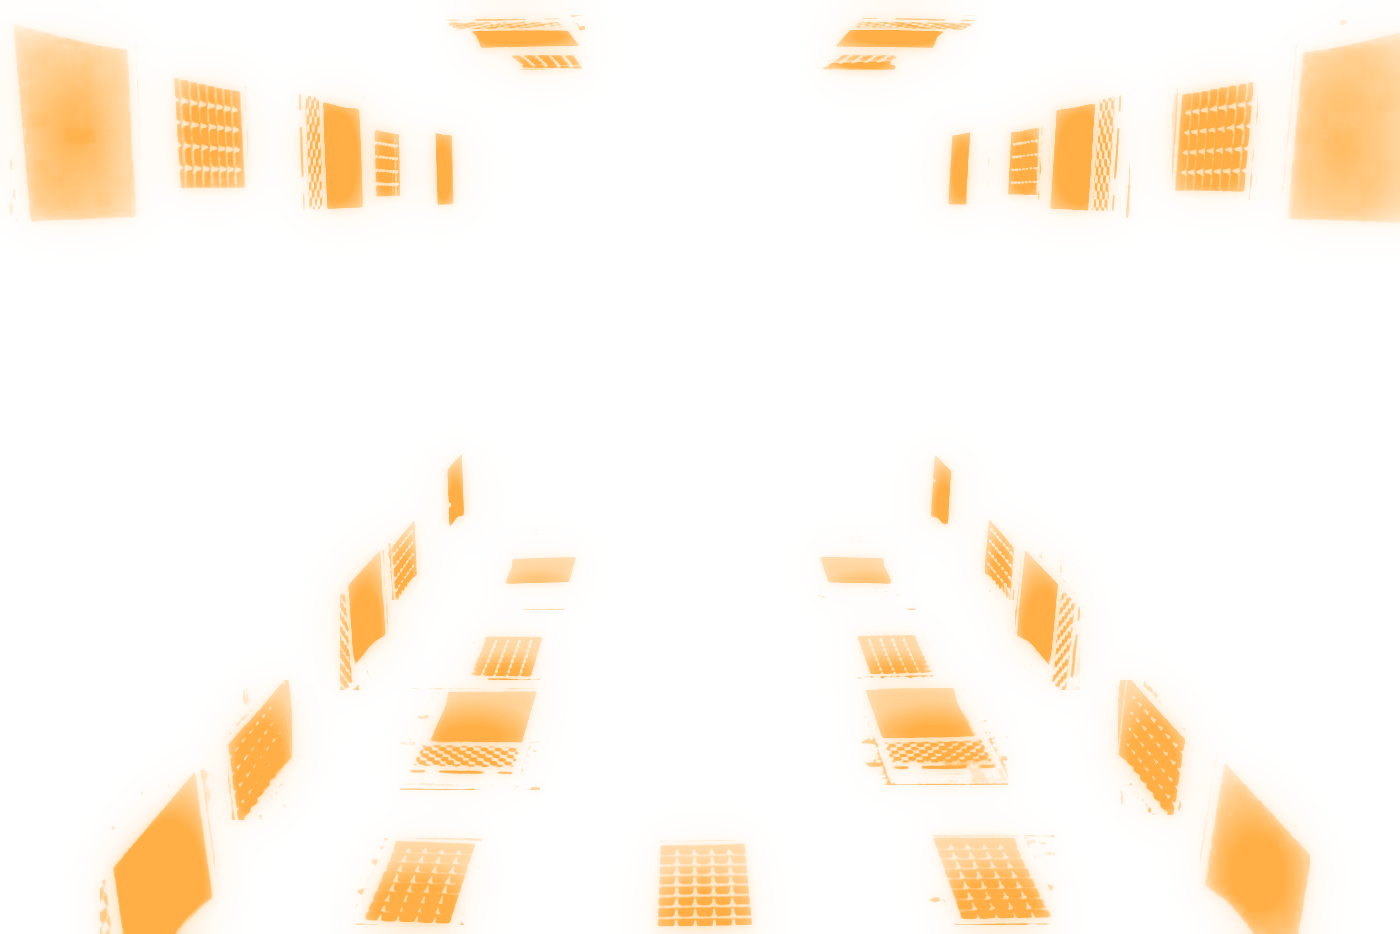
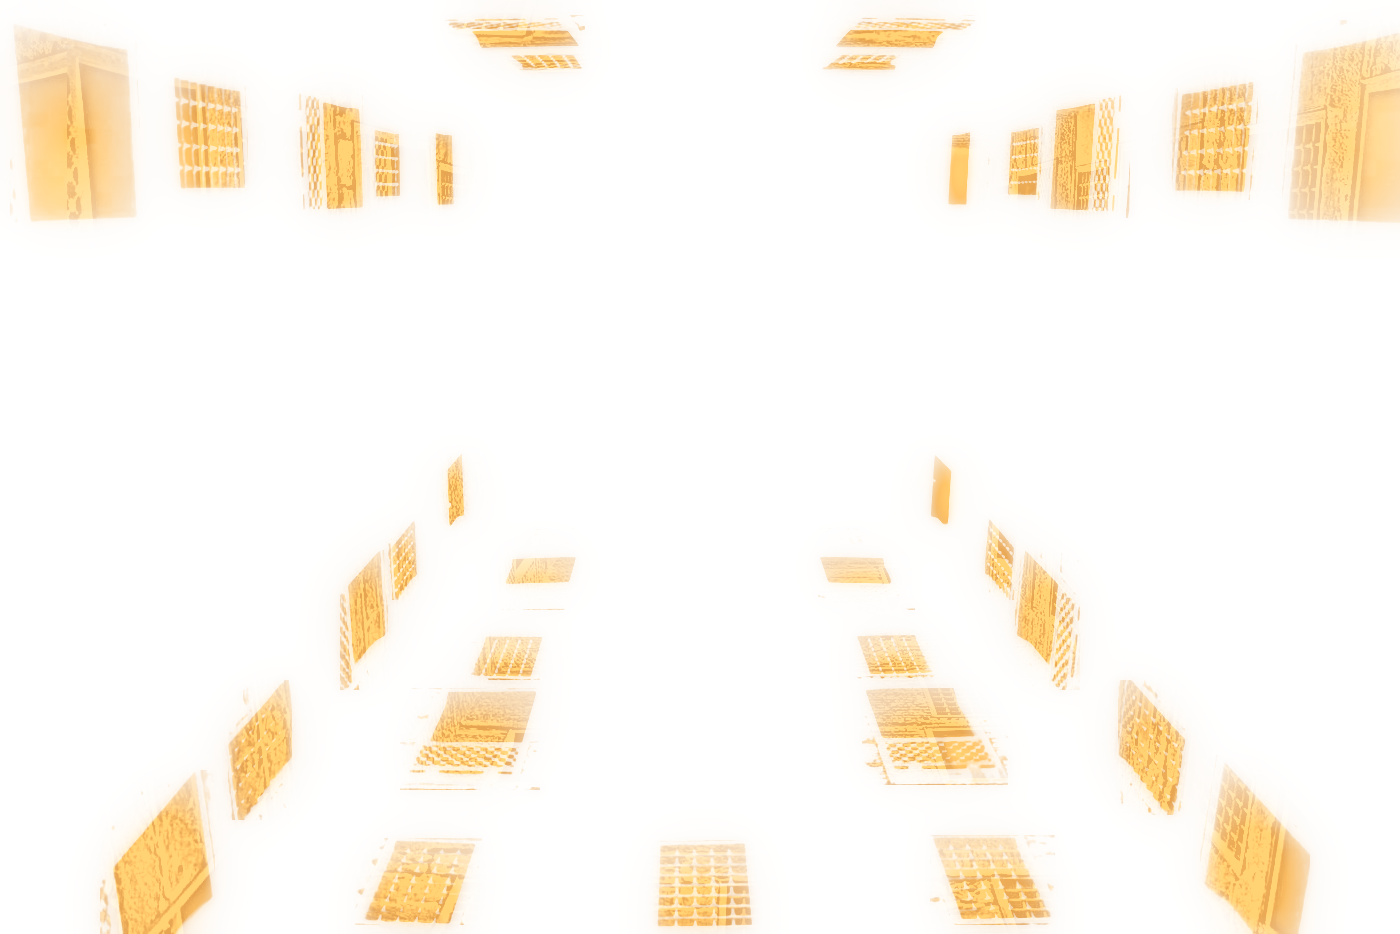
Time-lapse fixes from the prototype review
- The colleges fill: the lamplit rooms are no longer flat fills (each has an off-centre lamp, falloff
  and the photograph's own plaster grain, alpha capped); the open square of sky is a dusk-to-night
  gradient lit from one side, with no drawn stars.
- The mountain rises: no empty beige frame at "Building begins"; the street and trees are there from
  the start and the camera stays close on the rising walls, pulling back as they climb.
- The minaret falls: the frame is wide enough to keep the doorway's hood under the minaret (the print's
  blurred edges fill the sides on wide frames); the stand-in minaret is drawn smaller.
- Reduced motion / cinematic off: "The mountain rises" shows today's colour photograph under "Today".

Claude-Session: https://claude.ai/code/session_01LhJPxFL8QDBqcKKZK9Pg3H

diff --git a/index.html b/index.html
@@ -3625,6 +3625,7 @@ details.transcript p { font-size: 15px; line-height: 1.7; color: rgba(239,231,21
         x.fillRect(v.X(a) - v.s * 0.25, v.Y(y + 1.7), v.s * 0.5, v.s * 1.7); }
     }
 
+    let fallBlur = null;
     // The fall: the shaft leans from its foot, breaks into courses, and each course drops with a little motion blur (plate pixels).
     const SLABS = [0, 110, 200, 300, 390, 470, 567];
     function fallMinaret(x, im, tf, MX, MY, MW, MH, BX, BY) {
@@ -3689,11 +3690,11 @@ details.transcript p { font-size: 15px; line-height: 1.7; color: rgba(239,231,21
         ],
         drawPhoto(x, v, p, t, still, im) {
           const day = Math.sin(t * 2.3 - 1.2), fl = still ? 0 : 1 - seg(p, 0.84, 0.92), night = fl * Math.max(0, -day) * 0.75; // days and nights pass (under 0.4 Hz), then settle
-          const k = 1.03 - 0.03 * p, oy = 0.012 - 0.012 * p; // a slow push back, like a camera on a tripod across the square
+          const h = still ? 1 : keys(p, [[0, 0.1], [0.09, 0.15], [0.5, 0.45], [0.62, 0.55], [0.72, 0.7], [0.84, 0.97], [0.86, 1]]); // share of the print's height built (the street and the trees in front are there from the start)
+          const k = still ? 1 : Math.min(2.8, 1 / Math.min(1, h * 1.5 + 0.14)), oy = (v.H - im.plate.height * Math.max(v.W / im.plate.width, v.H / im.plate.height) * k) / (2 * v.H); // the camera keeps the rising work in view, pulling back as the walls climb (bottom held)
           x.fillStyle = '#000'; x.fillRect(0, 0, v.W, v.H);
           const f = cover(x, v, im.plate, k, 0, oy);
-          const h = still ? 1 : keys(p, [[0, 0], [0.09, 0.02], [0.5, 0.41], [0.62, 0.52], [0.72, 0.7], [0.84, 0.97], [0.86, 1]]); // share of the print's height built
-          const top = f.t + f.h * (1 - h);
+                    const top = f.t + f.h * (1 - h);
           if (h > 0.001) {
             x.save(); x.beginPath(); x.moveTo(f.l, f.t + f.h);
             for (let a = 0; a <= 12; a++) { const xs = f.l + (f.w * a) / 12, j = still || h >= 1 ? 0 : (Math.sin(a * 2.7 + Math.floor(t * 1.3) * 1.9) * 0.5 + 0.5) * f.h * 0.008; x.lineTo(xs, top + j); x.lineTo(xs + f.w / 12, top + j); }
@@ -3713,8 +3714,8 @@ details.transcript p { font-size: 15px; line-height: 1.7; color: rgba(239,231,21
             const today = seg(p, 0.88, 0.97); // 1899 dissolves into today, in colour
             if (today > 0) { x.save(); x.globalAlpha = today; cover(x, v, im.today, 1.02 - 0.02 * seg(p, 0.88, 1)); x.restore(); }
             grain(x, v, t, 0.09 * (1 - today * 0.6));
-          } else grain(x, v, 0, 0.07);
-          const vg = x.createRadialGradient(v.W / 2, v.H * 0.45, v.W * 0.35, v.W / 2, v.H * 0.5, v.W * 0.9); vg.addColorStop(0, 'rgba(0,0,0,0)'); vg.addColorStop(1, 'rgba(0,0,0,.6)');
+          } else { cover(x, v, im.today, 1.0); grain(x, v, 0, 0.05); } // still: today's photograph, under its "Today" caption
+          const vg = x.createRadialGradient(v.W / 2, v.H / 2, Math.max(v.W, v.H) * 0.45, v.W / 2, v.H / 2, Math.max(v.W, v.H) * 0.85); vg.addColorStop(0, 'rgba(0,0,0,0)'); vg.addColorStop(1, 'rgba(0,0,0,.45)');
           x.fillStyle = vg; x.fillRect(0, 0, v.W, v.H);
         },
         draw(x, v, p, t, still) {
@@ -3817,11 +3818,12 @@ details.transcript p { font-size: 15px; line-height: 1.7; color: rgba(239,231,21
           const [s0, s1, s2, s3] = this.sky;
           if (n > 0.01) {
             x.save(); x.globalCompositeOperation = 'multiply'; x.fillStyle = `rgb(${255 - 214 * n | 0},${255 - 199 * n | 0},${255 - 148 * n | 0})`; x.fillRect(0, 0, iw, ih); x.restore();
-            x.save(); x.beginPath(); x.rect(s0 + 3, s1 + 3, s2 - s0 - 6, s3 - s1 - 6); x.clip(); // the night sky in the open square, a few stars
+            x.save(); x.beginPath(); x.rect(s0 + 3, s1 + 3, s2 - s0 - 6, s3 - s1 - 6); x.clip(); // the open square of sky goes from day to dusk to night
             const mixc = (a, b, q) => a.map((u, j) => u + (b[j] - u) * q | 0), tone = (d, u, w) => `rgb(${(n < 0.5 ? mixc(d, u, n * 2) : mixc(u, w, (n - 0.5) * 2)).join(',')})`; // day, dusk, night
-            const g = x.createLinearGradient(0, s1, 0, s3); g.addColorStop(0, tone([250, 246, 236], [96, 110, 160], [8, 14, 40])); g.addColorStop(1, tone([255, 240, 210], [214, 150, 104], [22, 30, 66]));
+            const cx = s0 + (s2 - s0) * 0.8, cy = s1 + (s3 - s1) * 0.85, R = Math.hypot(s2 - s0, s3 - s1); // the last light low on one side, as the sky looks straight up at dusk
+            const g = x.createRadialGradient(cx, cy, 0, cx, cy, R); g.addColorStop(0, tone([255, 240, 214], [226, 160, 112], [26, 30, 50])); g.addColorStop(0.55, tone([252, 246, 234], [120, 124, 168], [13, 16, 32])); g.addColorStop(1, tone([248, 246, 240], [74, 86, 140], [6, 8, 18]));
             x.globalAlpha = Math.min(1, n * 3); x.fillStyle = g; x.fillRect(s0, s1, s2 - s0, s3 - s1); x.globalAlpha = 1;
-            const r = rnd(9); x.fillStyle = `rgba(235,235,255,${Math.max(0, n - 0.5) * 1.6})`; for (let i = 0; i < 26; i++) { const sz = r() < 0.2 ? 2.4 : 1.4; x.fillRect(s0 + r() * (s2 - s0), s1 + r() * (s3 - s1), sz, sz); }
+            const e = x.createLinearGradient(s0, 0, s0 + 40, 0); e.addColorStop(0, `rgba(0,0,0,${0.35 * n})`); e.addColorStop(1, 'rgba(0,0,0,0)'); x.fillStyle = e; x.fillRect(s0, s1, 40, s3 - s1); // the walls' shadow on the edge of the opening
             x.restore();
           }
           const L = still ? 1 : 0.2 + 0.8 * n, r = rnd(23); // lamps: each room has its turn to be taken, and flickers a little
@@ -3870,23 +3872,27 @@ details.transcript p { font-size: 15px; line-height: 1.7; color: rgba(239,231,21
           { c: 'Time-lapse pictures: the doorway, Beniamino Facchinelli, between 1873 and 1895 (Bibliothèque nationale de France / Wikimedia Commons, public domain), sky extended for Medu; the minaret, cut from Max Herz\'s plate VI of 1899 (Wikimedia Commons, public domain), a stand-in for the one that fell.', s: null },
         ],
         drawPhoto(x, v, p, t, still, im, m) {
-          const PW = 657, PH = 1500, MX = 321, MY = 200, MW = 148, MH = 567, BX = MX + MW / 2, BY = MY + MH; // plate pixels; BX, BY: the minaret's foot on the cornice
+          const PW = 657, PH = 1500, MW = 118, MH = 454, BX = 395, BY = 767, MX = BX - MW / 2, MY = BY - MH; // plate pixels; BX, BY: the minaret's foot on the cornice (its height is not recorded)
           const tf = still ? 99 : m.fall != null ? m.fall : -1;
           // the camera: on the doorway, tilting up as the minaret climbs, then settling back down through the dust
           const rise = still ? 0 : seg(t, 0.6, 7.5), gone = tf >= 0;
-          const s0 = v.W / PW, half = v.H / s0 / 2;
-          let cy = PH - half - 10;
-          const up = Math.max(half, MY - 40 + half);
-          cy += (up - cy) * (gone ? 1 - seg(tf, 1.5, 5.5) * 0.7 : seg(t, 1.5, 8)) * (still ? 0 : 1);
-          if (still) cy = Math.max(half, BY - 120 + half * 0.2);
           const z = 1.02 + (still ? 0 : 0.03 * seg(t, 0, 20));
+          const s = (v.W / PW) * Math.min(1, v.H / (v.W / PW) / 860) * z, half = v.H / s / 2; // wide enough for the minaret with the doorway under it
+          let cy = PH - half - 10;
+          const up = Math.max(half, Math.min(MY - 30 + half, BY + 330 - half)); // the whole minaret, and the doorway's hood under it
+          cy += (up - cy) * (gone ? 1 - seg(tf, 1.5, 5.5) * 0.6 : seg(t, 1.5, 8)) * (still ? 0 : 1);
+          if (still) cy = Math.max(half, BY - 120 + half * 0.2);
           let sx = 0, sy = 0; // the ground shakes when the stones land
           if (tf > 2.0 && tf < 3.6) { const a = (1 - seg(tf, 2.0, 3.6)) * 6; sx = Math.sin(t * 71) * a; sy = Math.cos(t * 53) * a * 0.7; }
-          const s = s0 * z;
           x.fillStyle = '#000'; x.fillRect(0, 0, v.W, v.H);
-          const hw = v.W / s / 2, cx = Math.min(PW - hw, Math.max(hw, BX));
-          x.save(); x.translate(v.W / 2 - cx * s + sx, v.H / 2 - Math.min(PH - half / z, Math.max(half / z, cy)) * s + sy); x.scale(s, s);
-          x.drawImage(im.plate, 0, 0, PW, PH);
+          const hw = v.W / s / 2, cx = PW / 2 > hw ? Math.min(PW - hw, Math.max(hw, BX)) : PW / 2, oy = v.H / 2 - Math.min(PH - half, Math.max(half, cy)) * s + sy;
+          if (PW * s < v.W) { // wider frames: the print's own edges, blurred and dimmed, fill the sides
+            if (!fallBlur) { fallBlur = document.createElement('canvas'); fallBlur.width = 22; fallBlur.height = 50; fallBlur.getContext('2d').drawImage(im.plate, 0, 0, 22, 50); }
+            x.save(); x.globalAlpha = 0.32; x.drawImage(fallBlur, -v.W * 0.1 + sx, oy - PH * s * 0.05, v.W * 1.2, PH * s * 1.1); x.restore();
+          }
+          x.save(); x.translate(v.W / 2 - cx * s + sx, oy); x.scale(s, s);
+          if (PW * s < v.W) { x.shadowColor = 'rgba(0,0,0,.6)'; x.shadowBlur = 30; }
+          x.drawImage(im.plate, 0, 0, PW, PH); x.shadowBlur = 0; x.shadowColor = 'transparent';
           if (!gone && !still) { // course by course, from the cornice up, the fresh stone paler
             const h = rise * MH, top = BY - h;
             if (h > 1) {

diff --git a/sw.js b/sw.js
@@ -1,5 +1,5 @@
 // Offline support: the app shell, photos and map are cached on first visit.
-const CACHE = 'medu-el1029d';
+const CACHE = 'medu-el1029e';
 const PRECACHE = ["./", "index.html", "manifest.webmanifest", "img/qalawun-0.jpg", "img/qalawun-1.jpg", "img/qalawun-2.jpg", "img/azhar-0.jpg", "img/azhar-1.jpg", "img/azhar-2.jpg", "img/zuweila-0.jpg", "img/zuweila-1.jpg", "img/zuweila-2.jpg", "img/zuweila-then.jpg", "img/hassan-0.jpg", "img/hassan-1.jpg", "img/hassan-2.jpg", "img/hassan-then.jpg", "img/hassan-midan.jpg", "img/hassan-portal.jpg", "img/hassan-tomb.jpg", "img/ibntulun-0.jpg", "img/ibntulun-1.jpg", "img/ibntulun-2.jpg", "img/gayer-0.jpg", "img/gayer-1.jpg", "img/gayer-2.jpg", "img/rifai-0.jpg", "img/rifai-1.jpg", "img/rifai-2.jpg", "img/akhur-0.jpg", "img/akhur-1.jpg", "img/akhur-2.jpg", "img/citadel-0.jpg", "img/citadel-1.jpg", "img/citadel-2.jpg", "img/hassan-print-kitlv.jpg", "img/hassan-print-herz1899.jpg", "img/hassan-print-facchinelli.jpg", "img/hassan-print-sebah.jpg", "img/hassan-print-protain.jpg", "img/hassan-print-conte.jpg", "img/hassan-r0-1.jpg", "img/hassan-r0-2.jpg", "img/hassan-r0-3.jpg", "img/hassan-r0-4.jpg", "img/hassan-r0-5.jpg", "img/hassan-r1-1.jpg", "img/hassan-r1-2.jpg", "img/hassan-r2-1.jpg", "img/hassan-r2-2.jpg", "img/hassan-r2-3.jpg", "img/hassan-r2-4.jpg", "img/hassan-r2-5.jpg", "img/hassan-r3-1.jpg", "img/hassan-r3-2.jpg", "img/hassan-r3-3.jpg", "img/hassan-r3-4.jpg", "img/hassan-r3-5.jpg", "img/hassan-r4-1.jpg", "img/hassan-r4-2.jpg", "img/hassan-r4-3.jpg", "img/hassan-r4-4.jpg", "img/hassan-r4-5.jpg", "img/hassan-r5-1.jpg", "img/hassan-r5-2.jpg", "img/hassan-r5-3.jpg", "img/hassan-r6-1.jpg", "img/hassan-r6-2.jpg", "img/hassan-r6-3.jpg", "img/hassan-r6-4.jpg", "img/hassan-r7-1.jpg", "img/hassan-r7-2.jpg", "img/hassan-r7-3.jpg", "img/hassan-r7-4.jpg", "img/hassan-r7-5.jpg", "img/hassan-r8-1.jpg", "img/hassan-r8-2.jpg", "img/hassan-r8-3.jpg", "img/hassan-r8-4.jpg", "img/hassan-r8-5.jpg", "img/hassan-r8-6.jpg", "img/hassan-r9-1.jpg", "img/hassan-r9-2.jpg", "img/hassan-r9-3.jpg", "img/hassan-r9-4.jpg", "img/hassan-r9-5.jpg", "img/hassan-r9-6.jpg", "img/hassan-r10-1.jpg", "img/hassan-r10-2.jpg", "img/hassan-r10-3.jpg", "img/hassan-r10-4.jpg", "img/hassan-r10-5.jpg", "img/hassan-r10-6.jpg", "img/hassan-r11-1.jpg", "img/hassan-r11-2.jpg", "img/hassan-r11-3.jpg", "img/map.jpg", "audio/narr/qalawun-0.m4a", "audio/narr/qalawun-1.m4a", "audio/narr/qalawun-2.m4a", "audio/narr/azhar-0.m4a", "audio/narr/azhar-1.m4a", "audio/narr/azhar-2.m4a", "audio/narr/zuweila-0.m4a", "audio/narr/zuweila-1.m4a", "audio/narr/zuweila-2.m4a", "audio/narr/ibntulun-0.m4a", "audio/narr/ibntulun-1.m4a", "audio/narr/ibntulun-2.m4a", "audio/narr/gayer-0.m4a", "audio/narr/gayer-1.m4a", "audio/narr/gayer-2.m4a", "audio/narr/hassan-0.m4a", "audio/narr/hassan-0-0.m4a", "audio/narr/hassan-0-1.m4a", "audio/narr/hassan-0-2.m4a", "audio/narr/hassan-0-3.m4a", "audio/narr/hassan-0-4.m4a", "audio/narr/hassan-0-5.m4a", "audio/narr/hassan-0-6.m4a", "audio/narr/hassan-1.m4a", "audio/narr/hassan-1-0.m4a", "audio/narr/hassan-1-1.m4a", "audio/narr/hassan-1-2.m4a", "audio/narr/hassan-2.m4a", "audio/narr/hassan-2-0.m4a", "audio/narr/hassan-2-1.m4a", "audio/narr/hassan-2-2.m4a", "audio/narr/hassan-2-3.m4a", "audio/narr/hassan-2-4.m4a", "audio/narr/hassan-3.m4a", "audio/narr/hassan-3-0.m4a", "audio/narr/hassan-3-1.m4a", "audio/narr/hassan-3-2.m4a", "audio/narr/hassan-3-3.m4a", "audio/narr/hassan-3-4.m4a", "audio/narr/hassan-4.m4a", "audio/narr/hassan-4-0.m4a", "audio/narr/hassan-4-1.m4a", "audio/narr/hassan-4-2.m4a", "audio/narr/hassan-4-3.m4a", "audio/narr/hassan-4-4.m4a", "audio/narr/hassan-4-5.m4a", "audio/narr/hassan-4-6.m4a", "audio/narr/hassan-5.m4a", "audio/narr/hassan-5-0.m4a", "audio/narr/hassan-5-1.m4a", "audio/narr/hassan-5-2.m4a", "audio/narr/hassan-5-3.m4a", "audio/narr/hassan-6.m4a", "audio/narr/hassan-6-0.m4a", "audio/narr/hassan-6-1.m4a", "audio/narr/hassan-6-2.m4a", "audio/narr/hassan-7.m4a", "audio/narr/hassan-7-0.m4a", "audio/narr/hassan-7-1.m4a", "audio/narr/hassan-7-2.m4a", "audio/narr/hassan-7-3.m4a", "audio/narr/hassan-7-4.m4a", "audio/narr/hassan-8.m4a", "audio/narr/hassan-8-0.m4a", "audio/narr/hassan-8-1.m4a", "audio/narr/hassan-8-2.m4a", "audio/narr/hassan-8-3.m4a", "audio/narr/hassan-8-4.m4a", "audio/narr/hassan-8-5.m4a", "audio/narr/hassan-9.m4a", "audio/narr/hassan-9-0.m4a", "audio/narr/hassan-9-1.m4a", "audio/narr/hassan-9-2.m4a", "audio/narr/hassan-9-3.m4a", "audio/narr/hassan-9-4.m4a", "audio/narr/hassan-9-5.m4a", "audio/narr/hassan-10.m4a", "audio/narr/hassan-10-0.m4a", "audio/narr/hassan-10-1.m4a", "audio/narr/hassan-10-2.m4a", "audio/narr/hassan-10-3.m4a", "audio/narr/hassan-10-4.m4a", "audio/narr/hassan-11.m4a", "audio/narr/hassan-11-0.m4a", "audio/narr/hassan-11-1.m4a", "audio/narr/hassan-11-2.m4a", "audio/narr/rifai-0.m4a", "audio/narr/rifai-1.m4a", "audio/narr/rifai-2.m4a", "audio/narr/akhur-0.m4a", "audio/narr/akhur-1.m4a", "audio/narr/akhur-2.m4a", "audio/narr/citadel-0.m4a", "audio/narr/citadel-1.m4a", "audio/narr/citadel-2.m4a", "audio/narr/hassan-0-a.m4a", "audio/narr/hassan-0-a-0.m4a", "audio/narr/hassan-1-a.m4a", "audio/narr/hassan-1-a-0.m4a", "audio/narr/hassan-2-a.m4a", "audio/narr/hassan-2-a-0.m4a", "audio/narr/hassan-3-a.m4a", "audio/narr/hassan-3-a-0.m4a", "audio/narr/hassan-6-a.m4a", "audio/narr/hassan-6-a-0.m4a", "audio/narr/hassan-9-a.m4a", "audio/narr/hassan-9-a-0.m4a", "audio/narr/hassan-10-a.m4a", "audio/narr/hassan-10-a-0.m4a", "audio/narr/hassan-11-a.m4a", "audio/narr/hassan-11-a-0.m4a", "audio/ambient-ney.m4a", "audio/fx/kuttab-fes-1995.m4a", "audio/fx/recitation-istanbul-2010.m4a", "lapse/fall-minaret.png", "lapse/fall-plate.jpg", "lapse/fill-lamps.png", "lapse/fill-photo.jpg", "lapse/rise-building.png", "lapse/rise-plate.jpg", "lapse/rise-today.jpg", "icons/apple-touch-icon.png", "icons/favicon.png", "icons/icon-192.png", "icons/icon-512.png", "icons/maskable-512.png"];
 self.addEventListener('install', (e) => { e.waitUntil(caches.open(CACHE).then((c) => c.addAll(PRECACHE)).then(() => self.skipWaiting())); });
 self.addEventListener('activate', (e) => {
